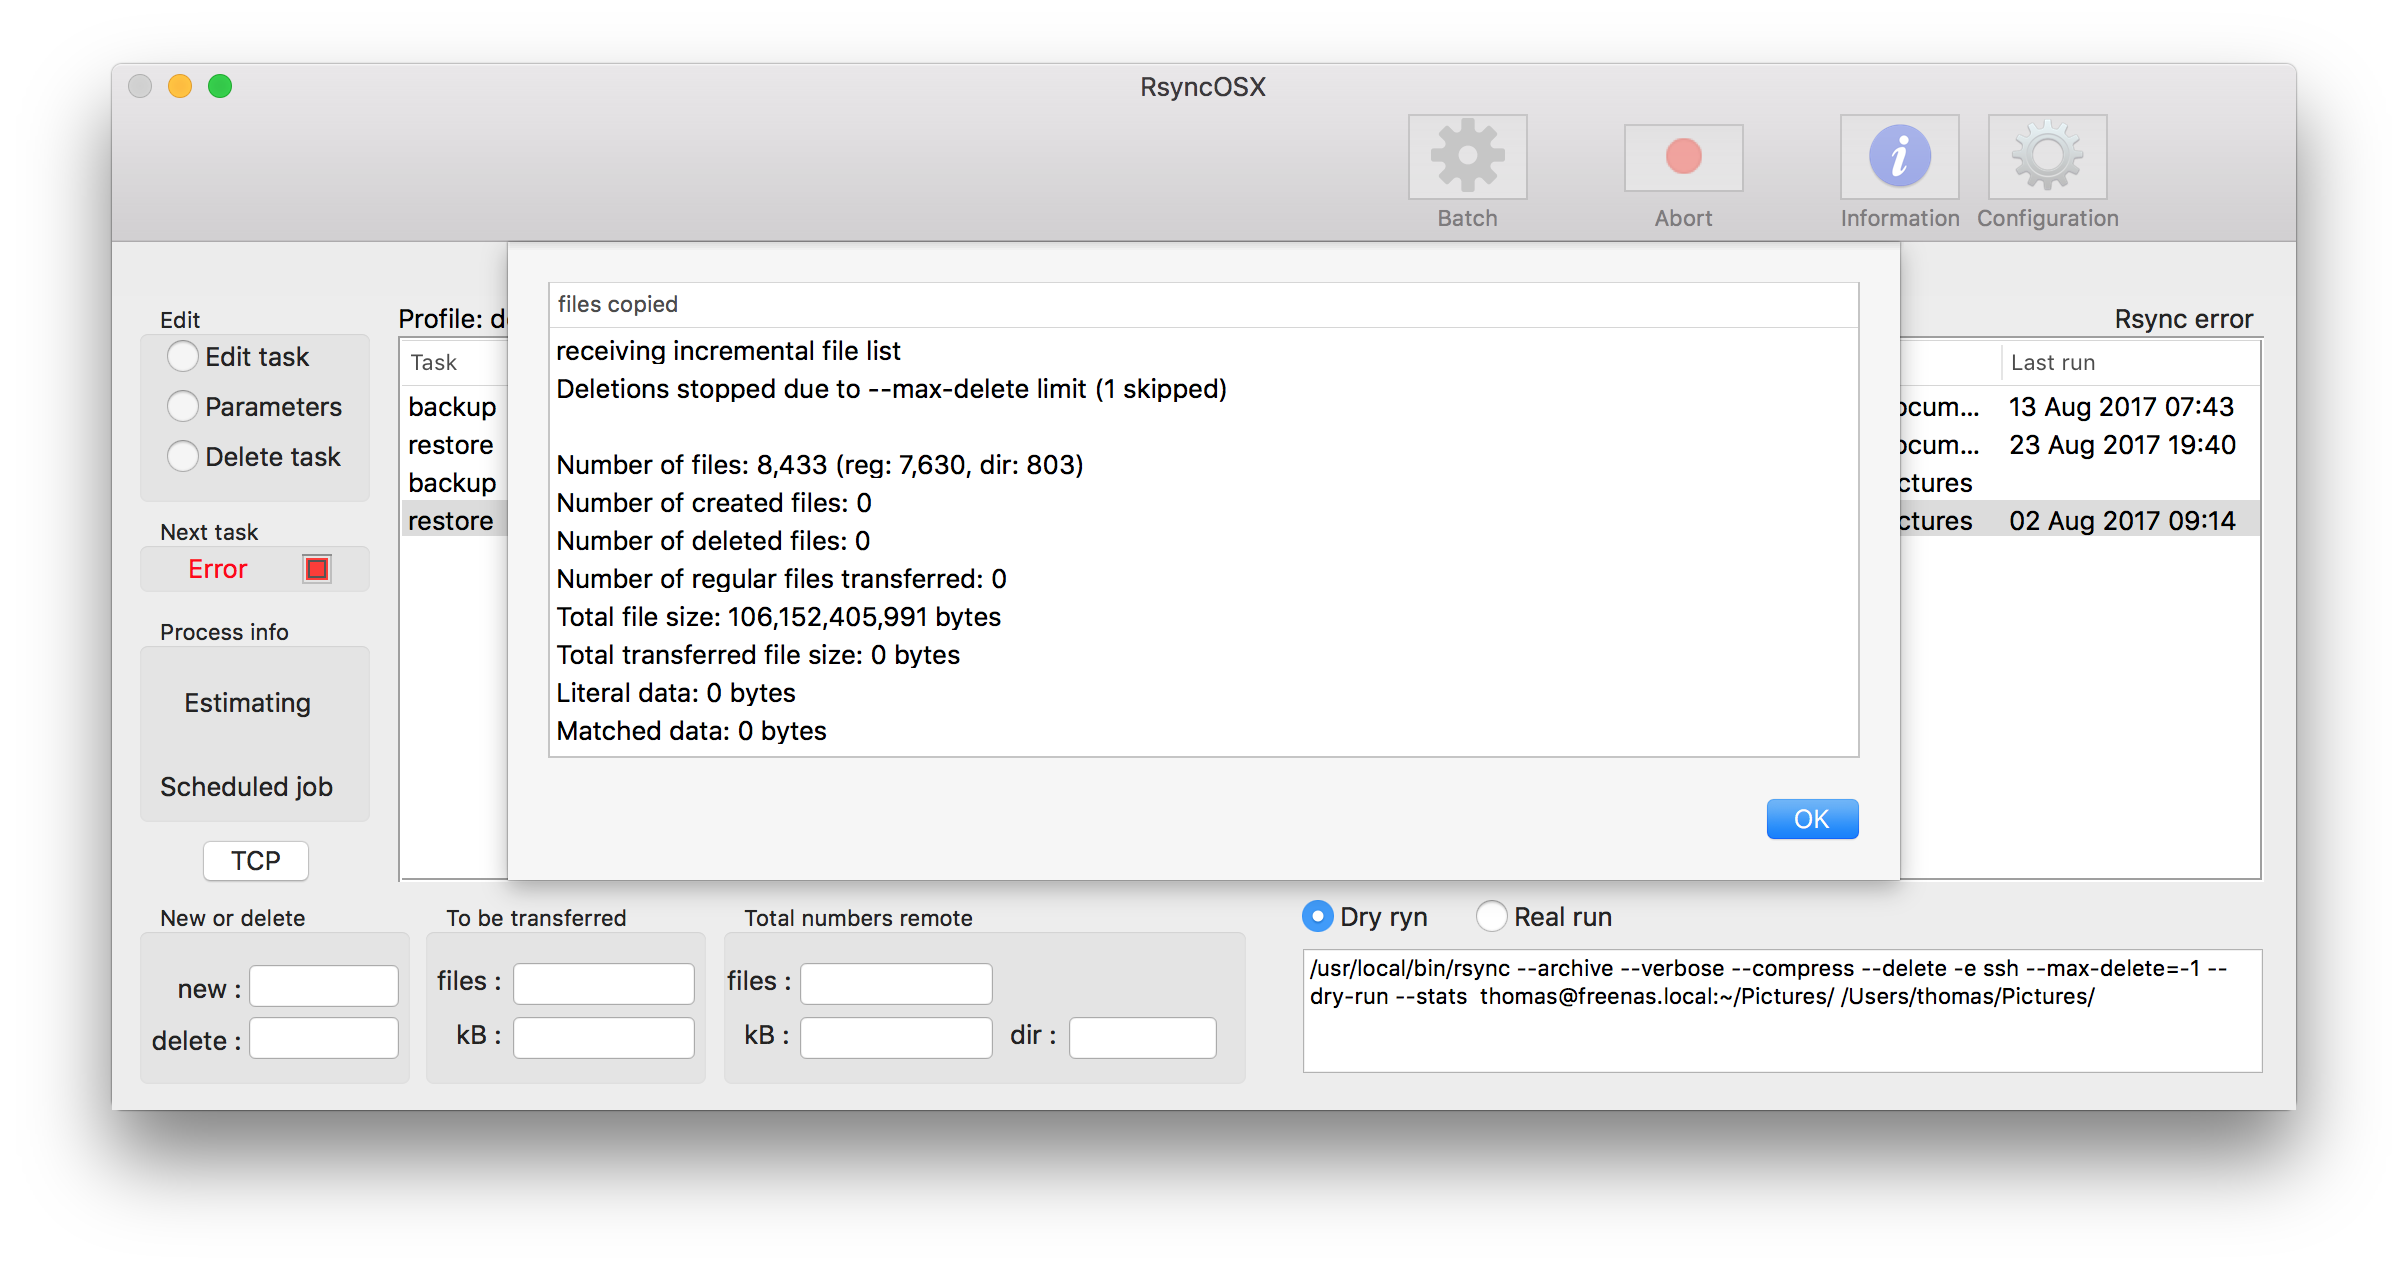
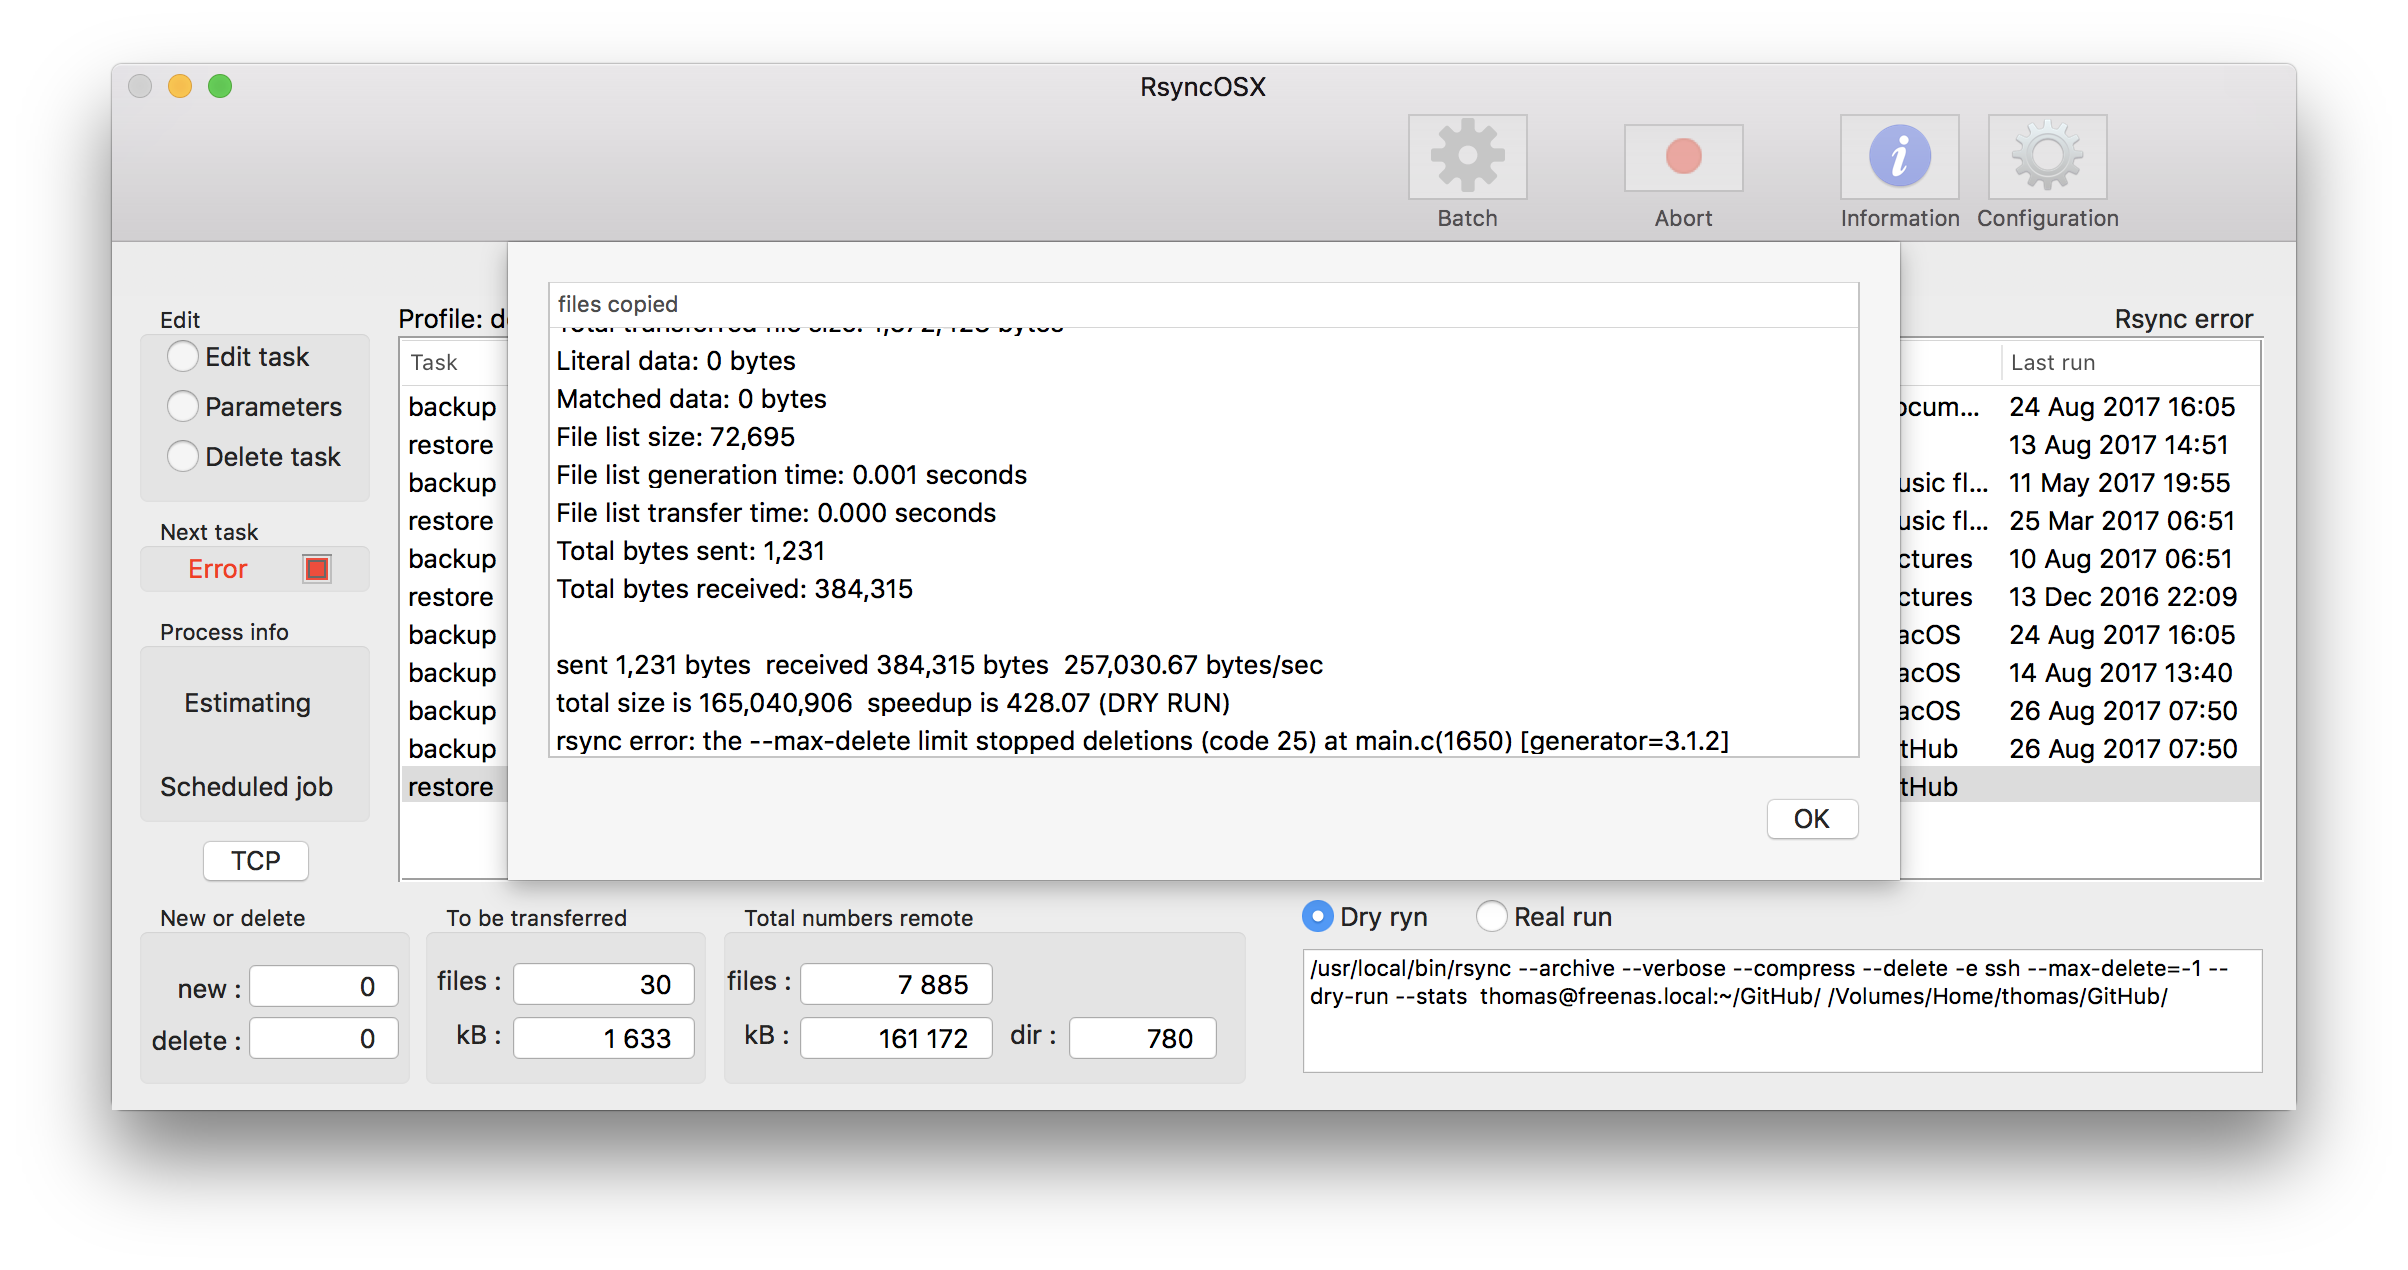
new rc

diff --git a/docs/Changelog.md b/docs/Changelog.md
@@ -16,9 +16,11 @@ One of the most exiting (in my opinion) features about macOS 10.13 is the new [A
 
 ## Version 4.5.0 - work in progress
 
-New rc updated 26 Aug 2017.
+New rc updated 27 Aug 2017.
 
 This version is in development. Will be released as soon as Xcode 9 and Swift 4 are released. Release candidate is available.
+
+In last rc image there is a rsync-3.2.1.dmg which includes a built version of latest rsync. To install this version of rsync please make a catalog in your home directory (or use /usr/local/bin) and make RsyncOSX aware of using the new rsync in [userconfig](https://rsyncosx.github.io/Documentation/docs/UserConfiguration.html).
 
 * using [SwiftLint](https://github.com/realm/SwiftLint) has caused several and major rewrites in parts of code
 	* some of the classes are yet not adapted to SwiftLint rules
@@ -28,7 +30,10 @@ This version is in development. Will be released as soon as Xcode 9 and Swift 4 
 * there are numerous internal changes and quite a few minor bugfixes
 * refactor filter (search) functions in logs and copy files
 * fixed a bug causing RsyncOSX to crash if loading new profile during a test for TCP connections
-* added paramater `--max-delete=-1` to secure no execution of task if files will be deleted during run (user selected in setting rsync parameters)
+* added parameter `--max-delete=-1` to secure no execution of task if files will be deleted during run (user selected in setting rsync parameters)
+
+![](screenshots/4.5.0rc/max-delete.png)
+![](screenshots/4.5.0rc/max-delete-2.png)
 
 
 ## Version 4.4.6
